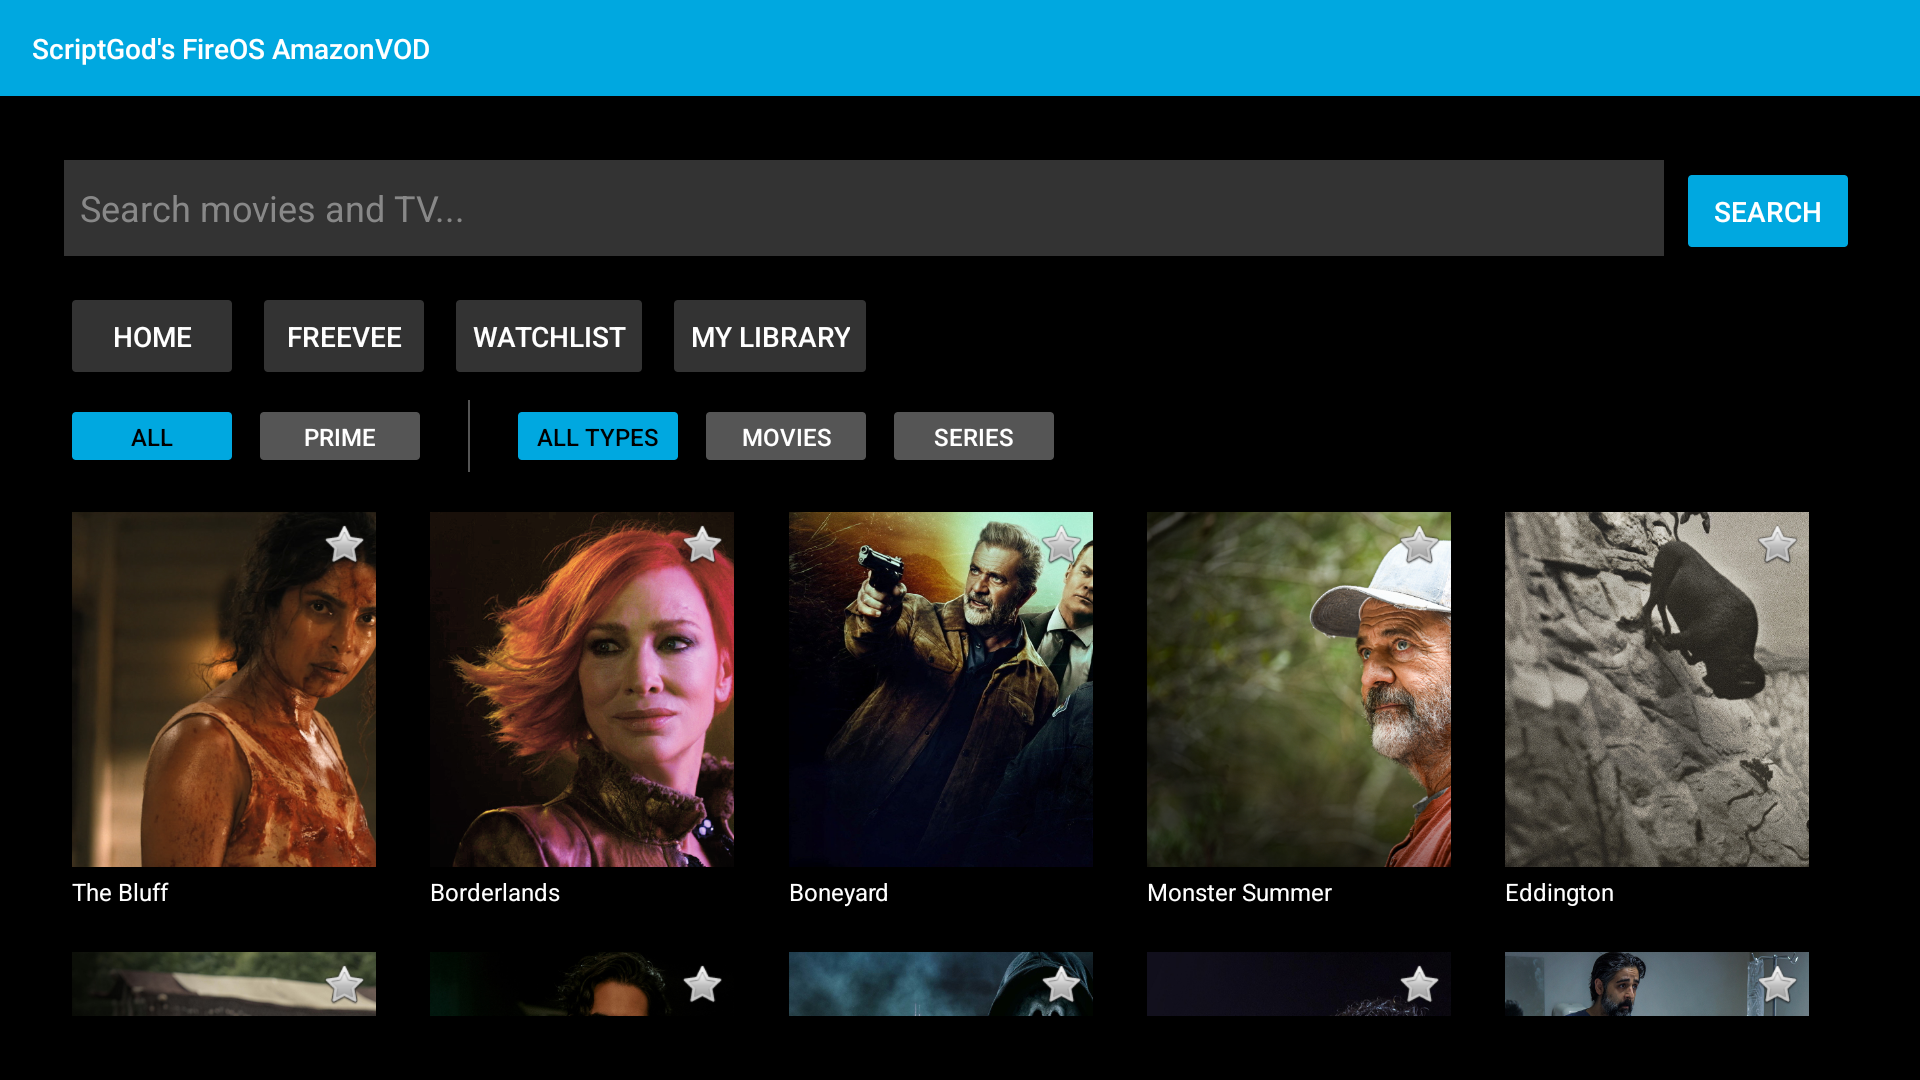
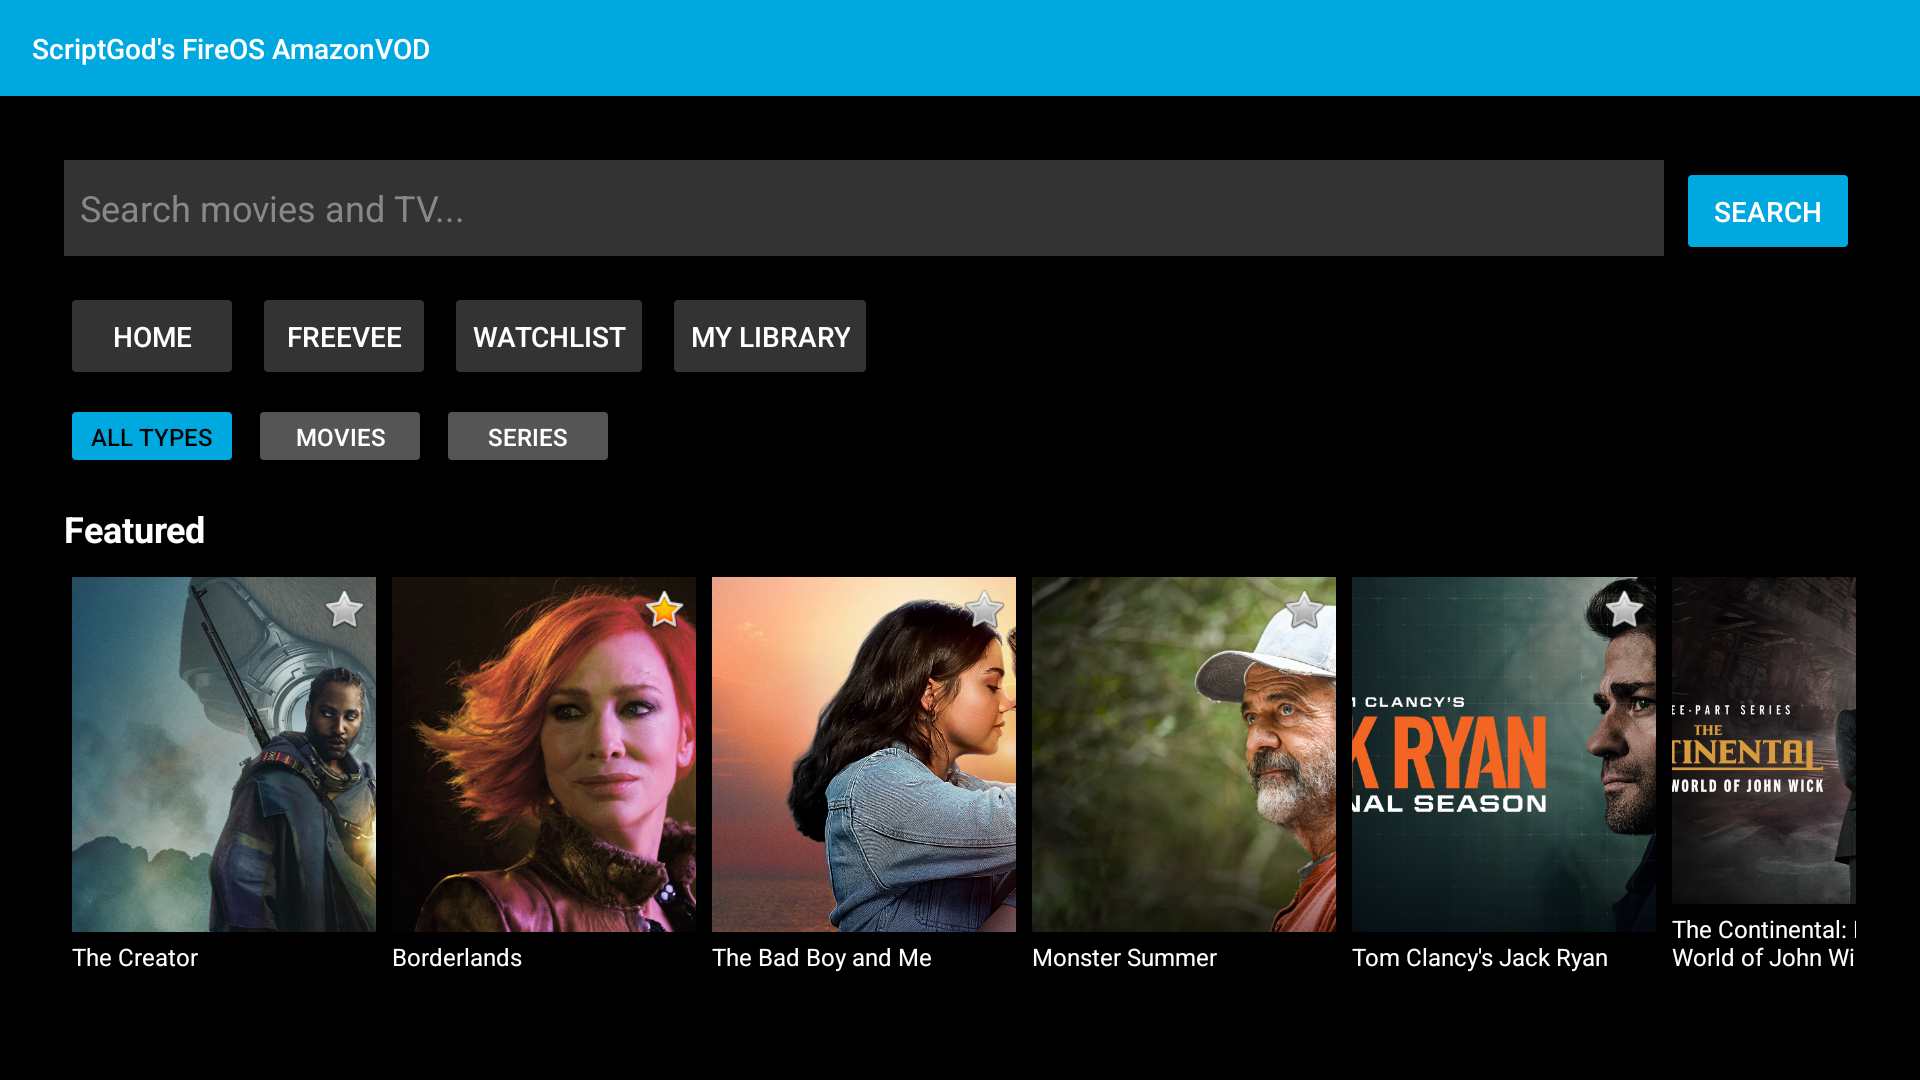
docs: update screenshots for Phase 19 home carousels
Replace flat-grid home screenshot with new horizontal carousel layout.
Add second screenshot showing multiple rails stacked (Featured +
Recommended TV), demonstrating the real Prime Video home layout.
Reorganise screenshot table to lead with home carousel views.

diff --git a/README.md b/README.md
@@ -48,17 +48,17 @@ com.scriptgod.fireos.avod
 
 ## Screenshots
 
-| Login | Home Catalog | Search Suggestions |
-|:---:|:---:|:---:|
-| ![Login](screenshots/01_login.png) | ![Home](screenshots/02_home.png) | ![Search](screenshots/03_search.png) |
-
-| Watchlist | My Library | Series Filter |
-|:---:|:---:|:---:|
-| ![Watchlist](screenshots/04_watchlist.png) | ![Library](screenshots/05_library.png) | ![Filter](screenshots/06_filter.png) |
-
-| Season Selection | Episode List |
+| Home — Featured Carousel | Home — Multiple Rails |
 |:---:|:---:|
-| ![Seasons](screenshots/07_series_drilldown.png) | ![Episodes](screenshots/08_episodes.png) |
+| ![Home Featured](screenshots/02_home.png) | ![Home Multi Rails](screenshots/02b_home_multi.png) |
+
+| Login | Search Suggestions | Watchlist |
+|:---:|:---:|:---:|
+| ![Login](screenshots/01_login.png) | ![Search](screenshots/03_search.png) | ![Watchlist](screenshots/04_watchlist.png) |
+
+| My Library | Season Selection | Episode List |
+|:---:|:---:|:---:|
+| ![Library](screenshots/05_library.png) | ![Seasons](screenshots/07_series_drilldown.png) | ![Episodes](screenshots/08_episodes.png) |
 
 ## Roadmap
 
